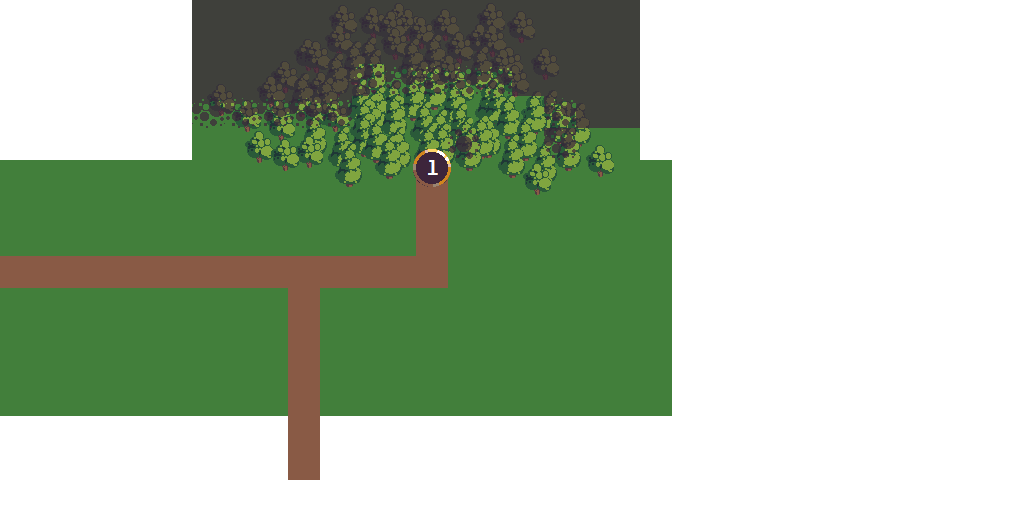
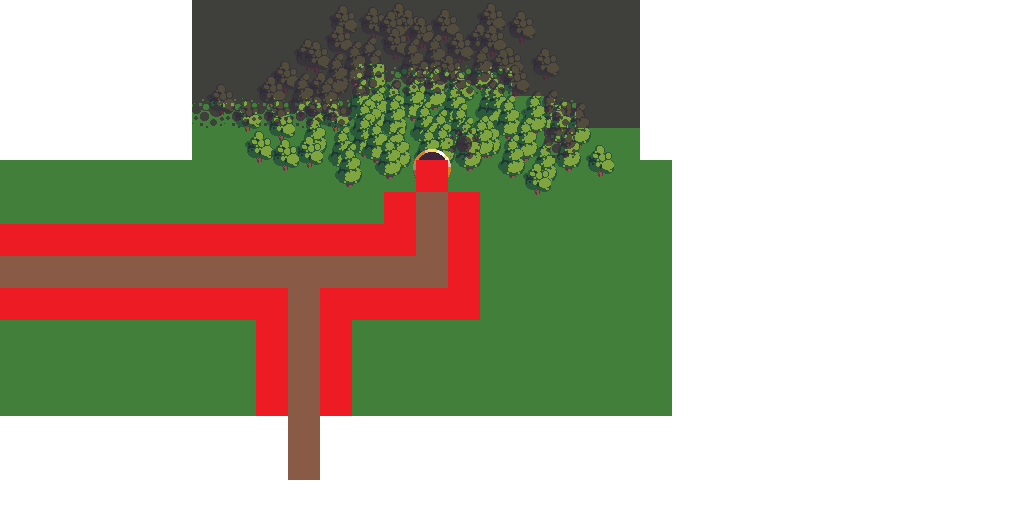
fixing map collision

diff --git a/LevelSelector/code/player.py b/LevelSelector/code/player.py
@@ -13,7 +13,6 @@ class Player(pygame.sprite.Sprite):
 
 		self.current_sprite = 0
 		self.image = self.walk_front_frames[self.current_sprite]
-		# self.image = pygame.transform.scale(pygame.image.load('./LevelSelector/graphics/test/player.png').convert_alpha(), (settings.TILESIZE, settings.TILESIZE))
 		self.rect = self.image.get_rect(topleft = pos)
 		self.hitbox = self.rect.inflate(-10, 0)
 
@@ -131,6 +130,8 @@ class Player(pygame.sprite.Sprite):
 		self.input()
 		self.move(self.speed)
 		self.check_animations()
+		pygame.draw.rect(self.screen, settings.WHITE, (self.hitbox.topleft, self.hitbox.bottomright))
+
 
 
 	def animate(self, sprite_list, speed):
